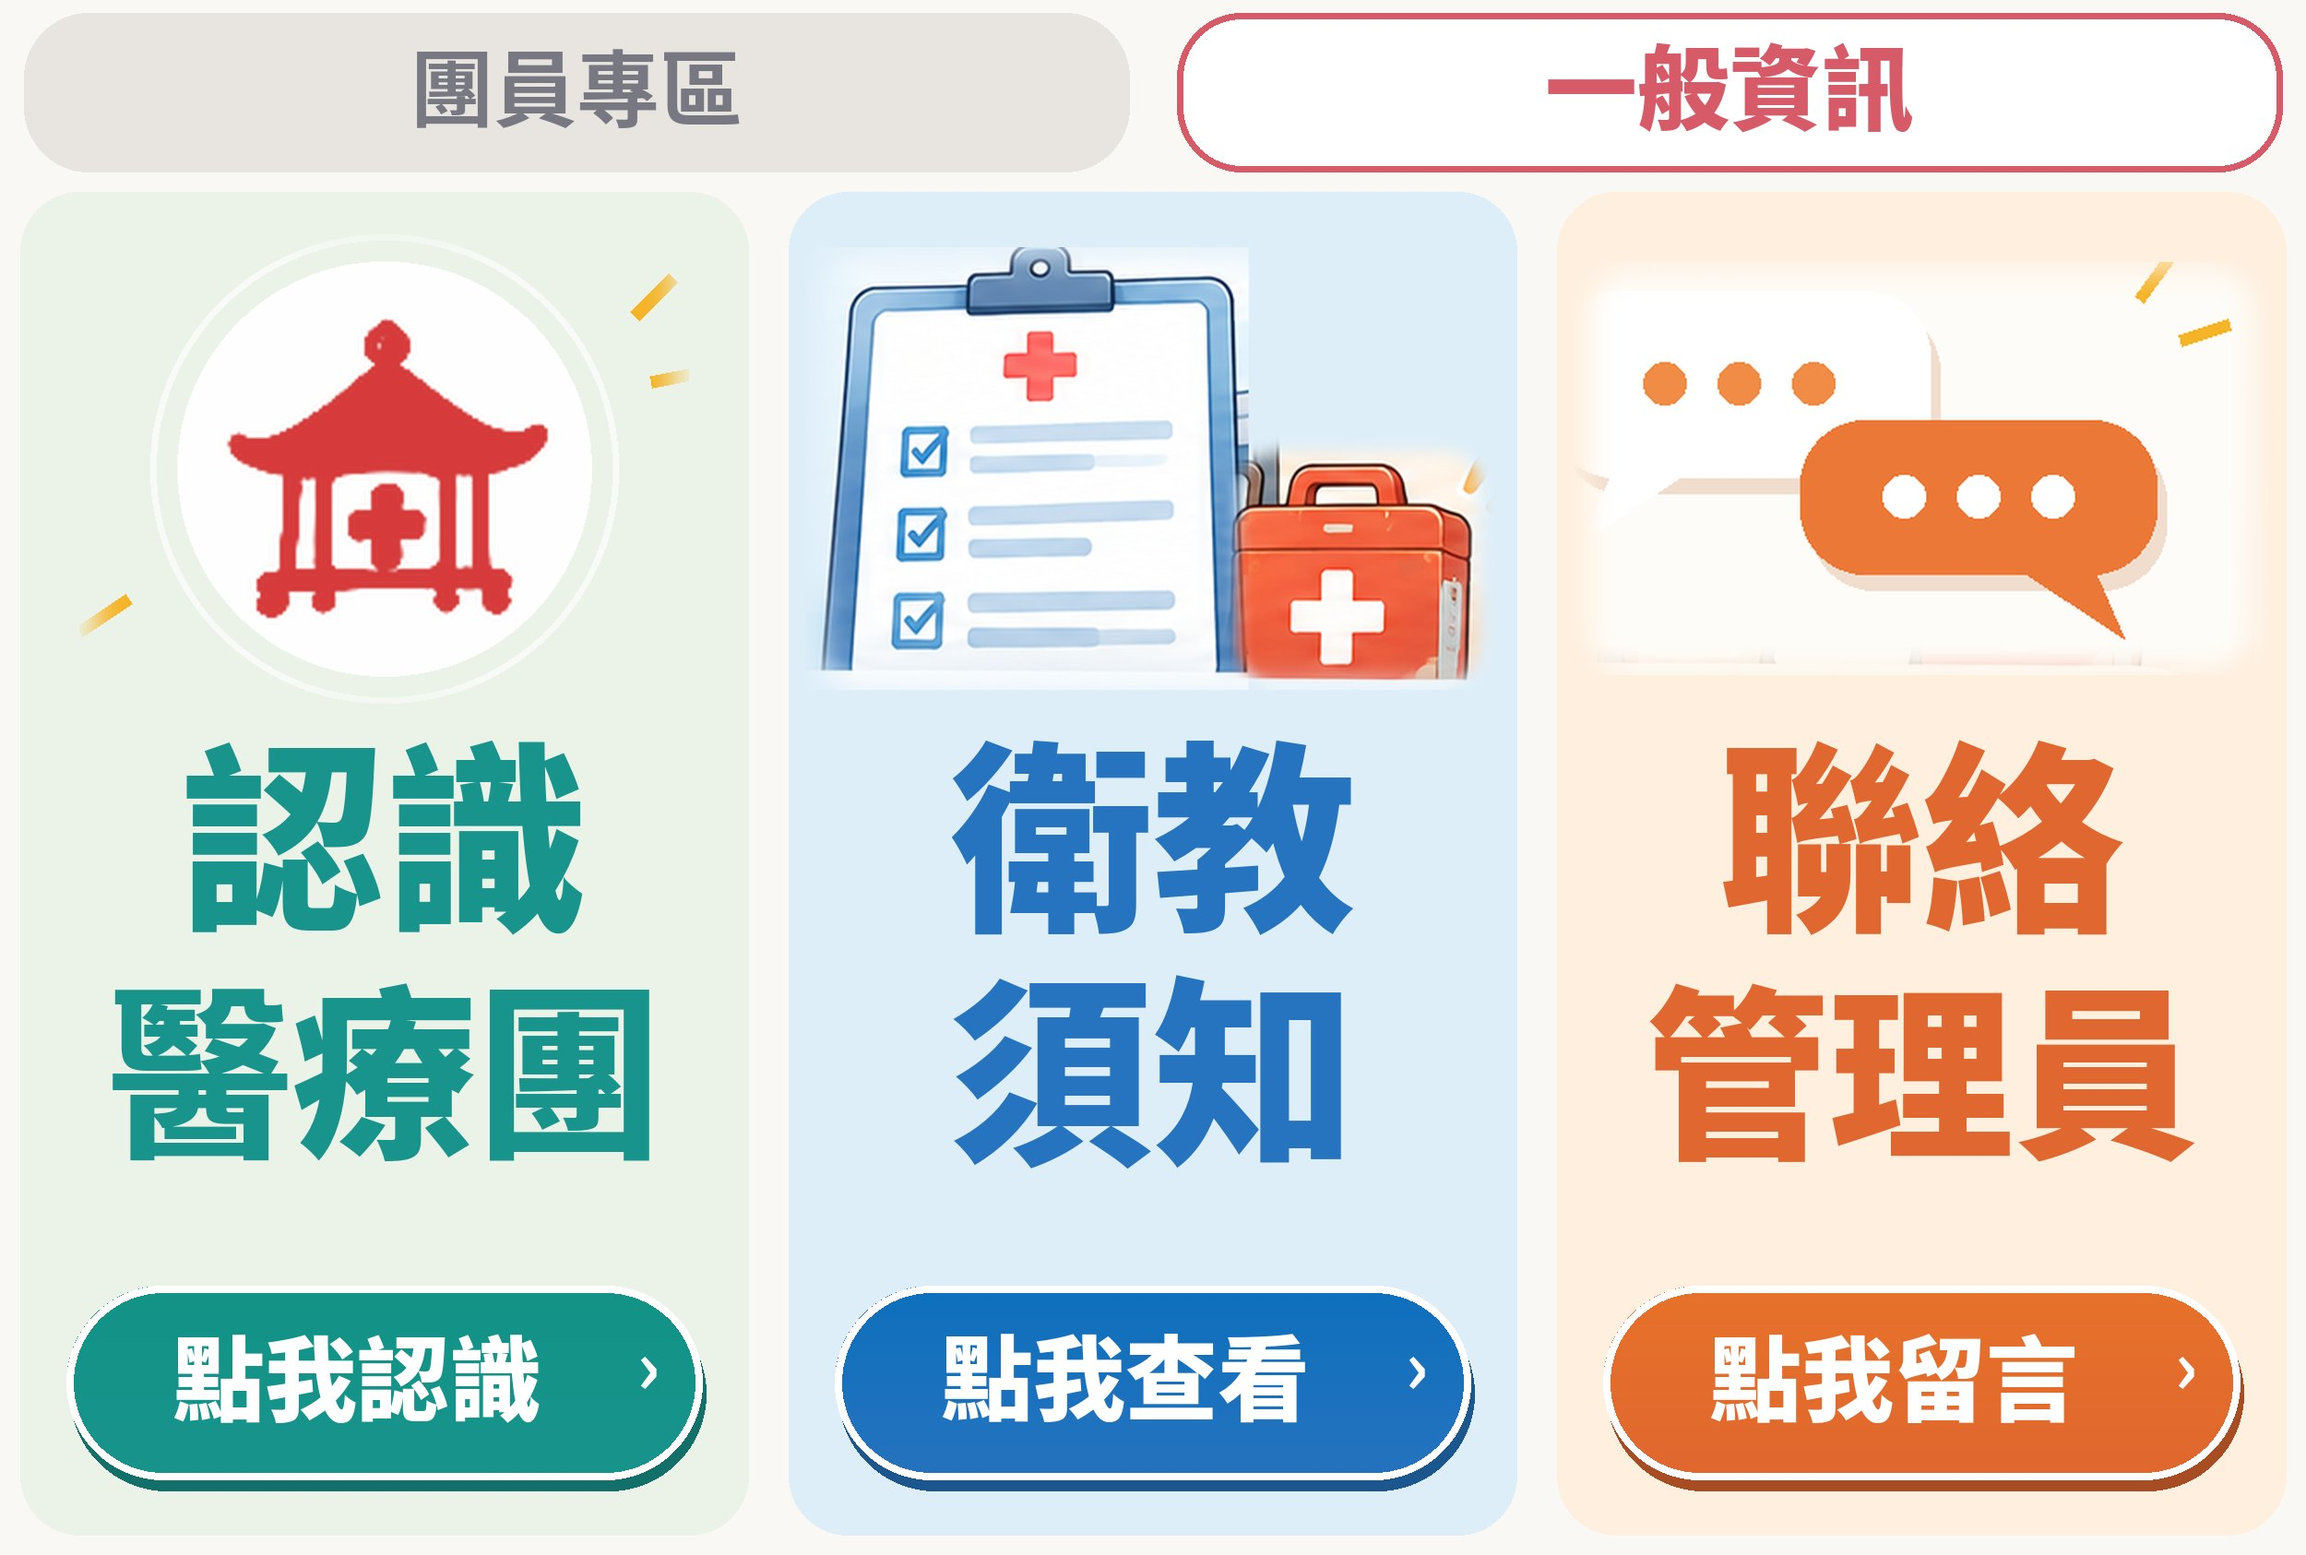
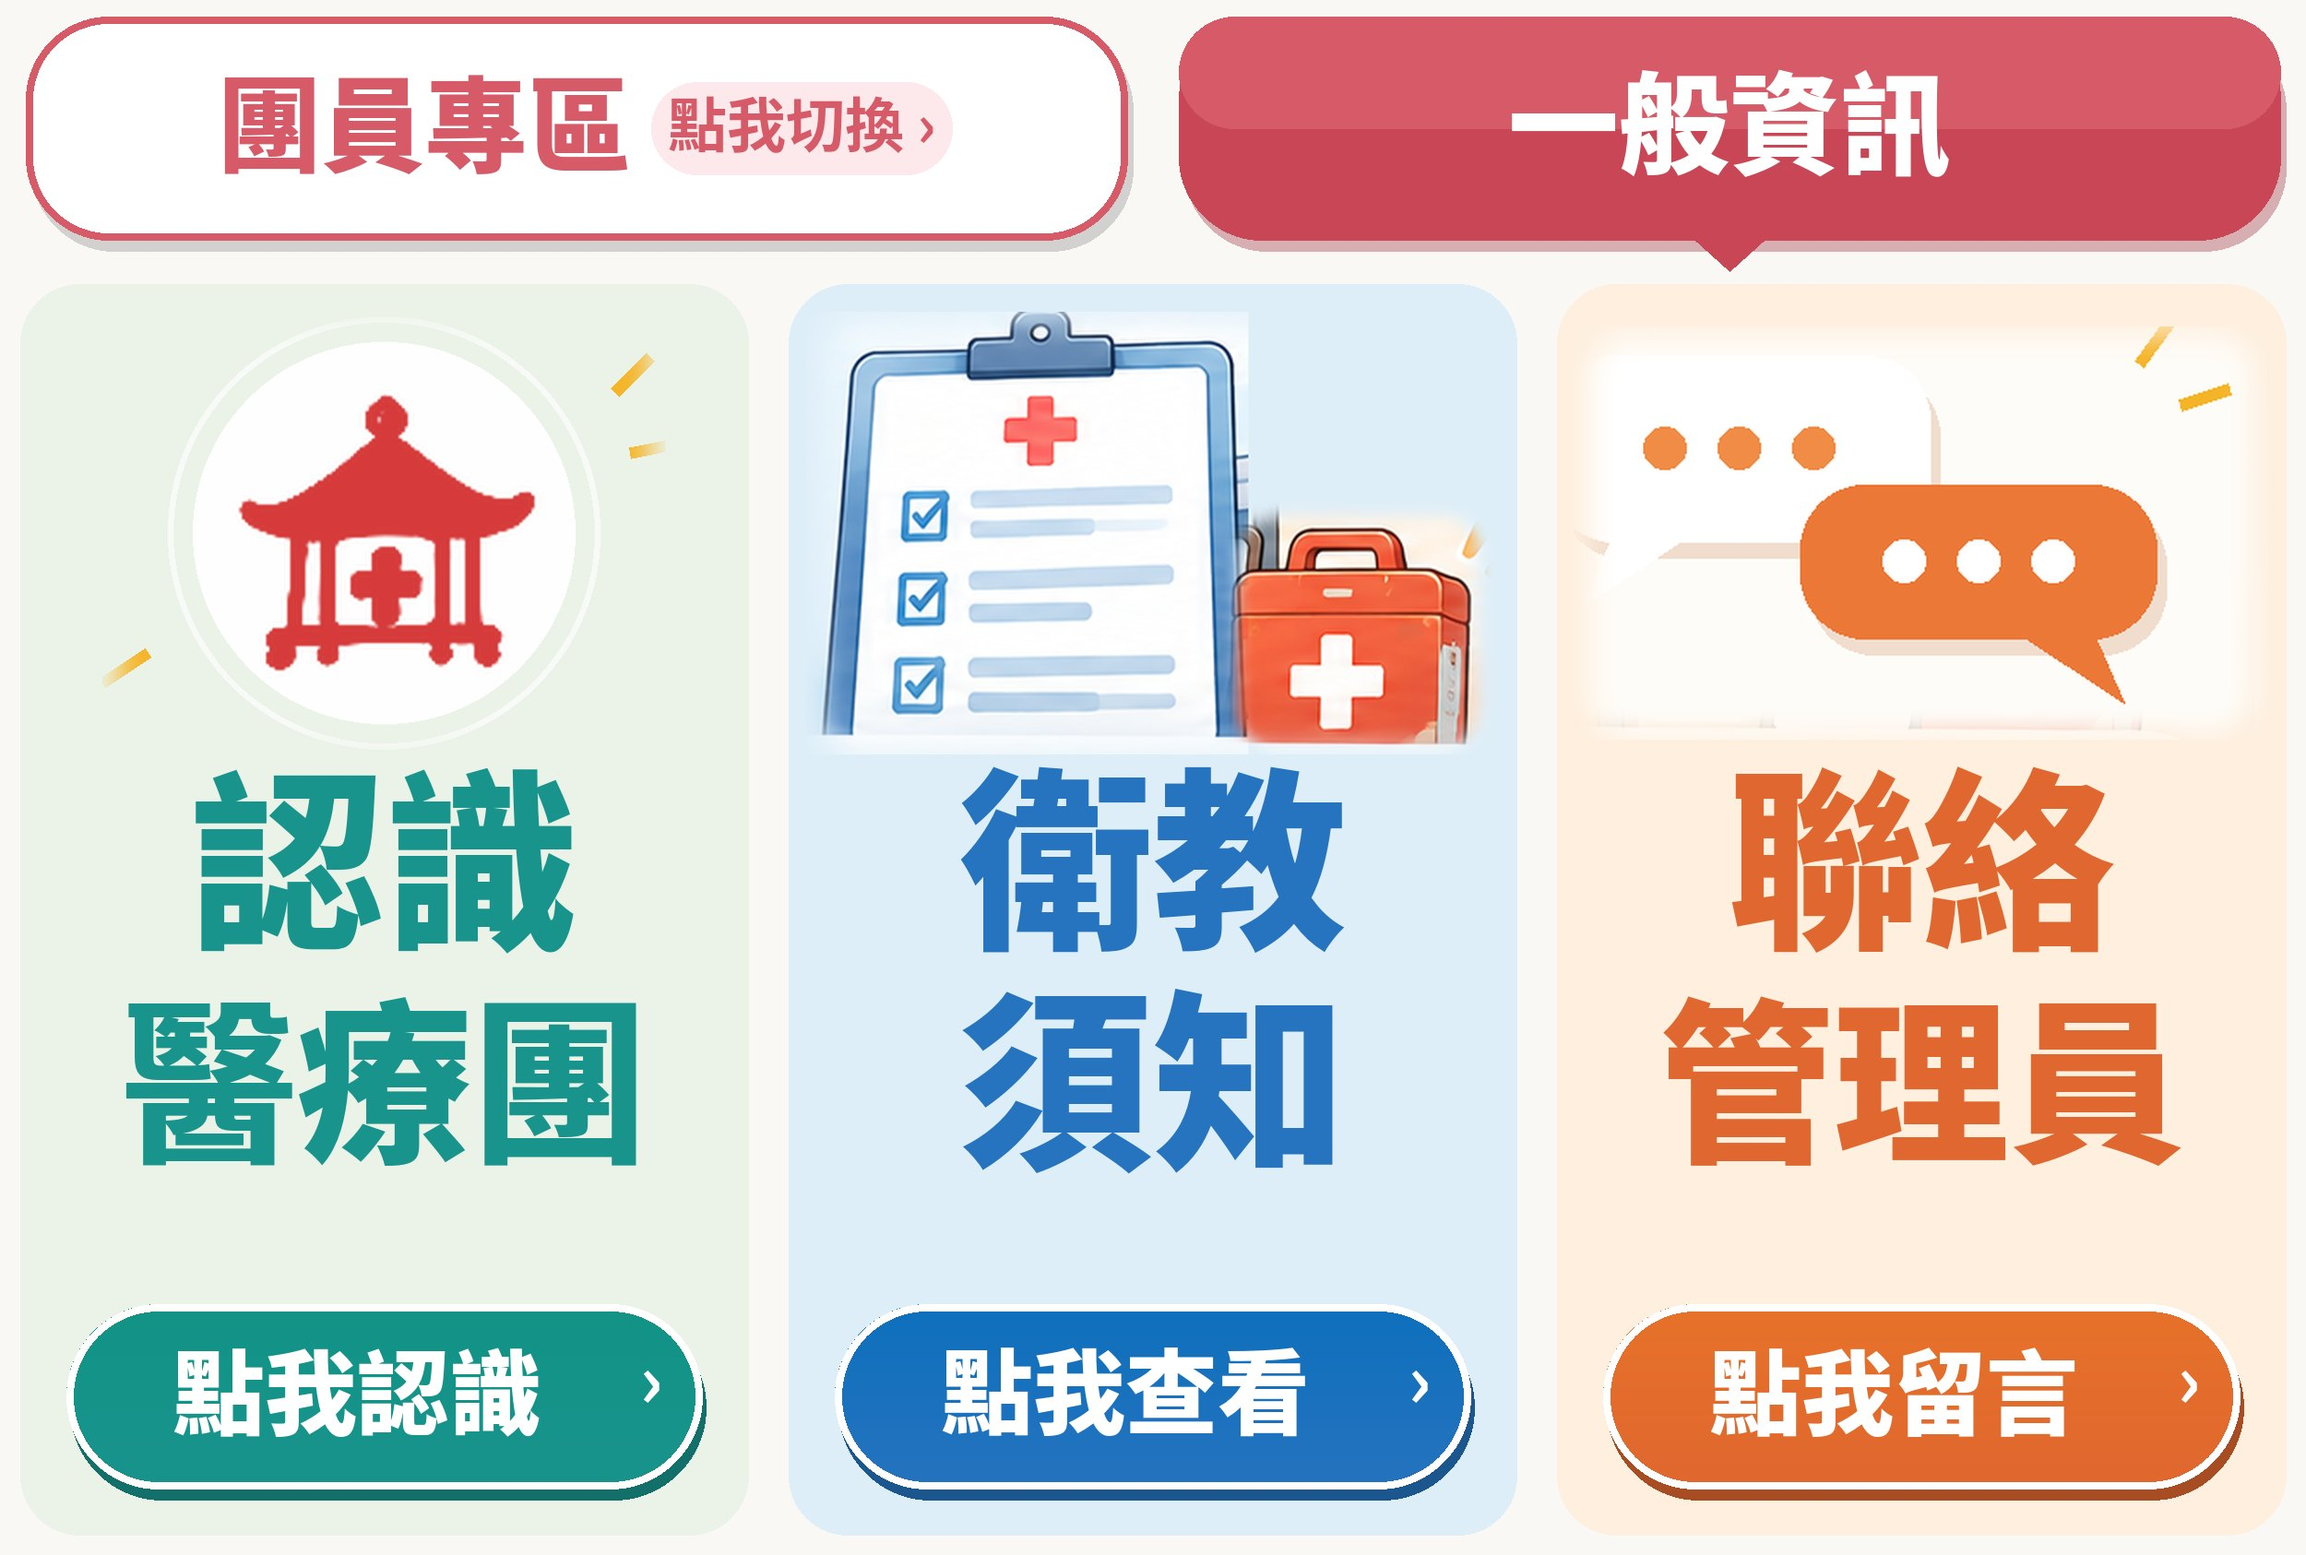
團員選單分頁列加大，明顯可點（實心紅底＝目前頁、白底「點我切換」）
Claude-Session: https://claude.ai/code/session_01UgnuMUR9BFixKJirFzAXJh

diff --git a/security/worker.js b/security/worker.js
@@ -110,8 +110,8 @@ async function parseRoute(req, env, json) {
 const SITE = 'https://tsushin-buishatun.pages.dev';
 const LIFF = id => 'https://liff.line.me/' + id;
 // 三張選單都是 LINE 標準大尺寸 2500×1686（非標準高度在手機上會被壓扁）
-// 上方 186px：標題列（一般民眾）或分頁列（團員：左 團員專區、右 一般資訊）；下面一排三張直卡
-const MW = 2500, MH = 1686, TAB = 186;
+// 團員兩頁上方 286px 是分頁列（左 團員專區、右 一般資訊）；一般民眾上方是標題列（整張卡都可按）；下面一排三張直卡
+const MW = 2500, MH = 1686, TAB = 286;
 const grid3 = (acts, top) => acts.map((a, i) => {
   const cw = Math.floor(MW / 3), x = i * cw;
   return { bounds: { x, y: top, width: i === 2 ? MW - x : cw, height: MH - top }, action: a };
